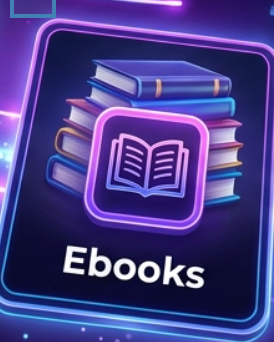
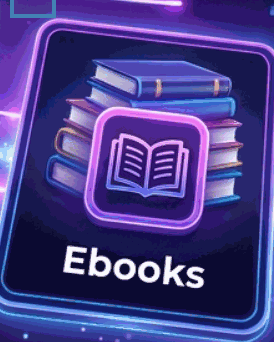
perf(core-web-vitals): eliminate render-blocking fonts, optimize hub images to webp, add main landmark, and defer scripts

diff --git a/index.html b/index.html
@@ -36,6 +36,10 @@
 <link rel="manifest" href="manifest.json"/>
 <meta name="theme-color" content="#7c3aed"/>
 <link rel="apple-touch-icon" href="icon-192.png"/>
+<link rel="preconnect" href="https://fonts.googleapis.com">
+<link rel="preconnect" href="https://fonts.gstatic.com" crossorigin>
+<link rel="stylesheet" href="https://fonts.googleapis.com/css2?family=Inter:wght@400;600;700;800&family=Poppins:wght@500;600;700&display=swap" media="print" onload="this.media='all'">
+<noscript><link rel="stylesheet" href="https://fonts.googleapis.com/css2?family=Inter:wght@400;600;700;800&family=Poppins:wght@500;600;700&display=swap"></noscript>
 <link rel="stylesheet" href="shared.css?v=20260914_imgpdf_v9"/>
 <link rel="icon" href="icon-192.png"/>
 <meta name="google-site-verification" content="googlec324d892b7f2bbf5"/>
@@ -177,6 +181,7 @@
   <a href="#" onclick="triggerAppInstall();return false;" style="color:#a855f7;font-weight:700;">📱 Install TheBhom App</a>
 </nav>
 
+<main id="mainContent">
 <!-- HERO -->
 <section class="hero" id="home">
   <div class="hero-content">
@@ -237,7 +242,7 @@
 <section id="pinterestFeedSection" style="padding:1.5rem 0 2rem;">
   <div style="max-width:1440px;margin:0 auto;padding:0 2rem 1rem;display:flex;justify-content:space-between;align-items:center;flex-wrap:wrap;gap:10px;">
     <div>
-      <h2 style="font-size:1.6rem;font-weight:900;color:#fff;">✨ Trending on <span class="grad-text">TheBhom Board</span></h2>
+      <h2 style="font-size:1.6rem;font-weight:900;color:var(--text);">✨ Trending on <span class="grad-text">TheBhom Board</span></h2>
       <p style="font-size:0.85rem;color:var(--text2);margin-top:2px;">Pinterest-style visual discovery • 100% Free • One-click Save & Download</p>
     </div>
     <div style="display:flex;gap:8px;">
@@ -278,42 +283,72 @@
         <div class="hub-subdomain">thebhom.in/tools</div>
       </a>
       <a href="downloader/" class="hub-card" style="border-color: rgba(0, 242, 254, 0.4); box-shadow: 0 0 25px rgba(0, 242, 254, 0.15);">
-        <div class="hub-preview-img-wrap"><img src="assets/hub/hub_downloader.png" alt="Video Downloader" class="hub-preview-img" /></div>
+        <div class="hub-preview-img-wrap">
+          <picture>
+            <source srcset="assets/hub/hub_downloader.webp" type="image/webp">
+            <img src="assets/hub/hub_downloader.png" alt="Video Downloader" class="hub-preview-img" width="314" height="240" loading="lazy" decoding="async" />
+          </picture>
+        </div>
         <h3>Video Downloader & Trimmer</h3>
         <p>YouTube, Instagram Reels, TikTok 1080p Full HD Video Download & Precise Clip Trimmer</p>
         <span class="hub-count" style="color:#00f2fe; background:rgba(0,242,254,0.12);">100% Free Tool</span>
         <div class="hub-subdomain">thebhom.in/downloader</div>
       </a>
       <a href="wallpapers.html" class="hub-card">
-        <div class="hub-preview-img-wrap"><img src="assets/hub/hub_wallpapers.png" alt="Wallpapers" class="hub-preview-img" /></div>
+        <div class="hub-preview-img-wrap">
+          <picture>
+            <source srcset="assets/hub/hub_wallpapers.webp" type="image/webp">
+            <img src="assets/hub/hub_wallpapers.png" alt="Wallpapers" class="hub-preview-img" width="322" height="340" loading="lazy" decoding="async" />
+          </picture>
+        </div>
         <h3>HD/4K Wallpapers</h3>
         <p>Mobile (9:16) & Desktop (16:9) Ultra-HD 4K Wallpapers</p>
         <span class="hub-count" id="wcnt">Loading...</span>
         <div class="hub-subdomain">thebhom.in/wallpapers</div>
       </a>
       <a href="ebooks.html" class="hub-card">
-        <div class="hub-preview-img-wrap"><img src="assets/hub/hub_ebooks.png" alt="E-Books" class="hub-preview-img" /></div>
+        <div class="hub-preview-img-wrap">
+          <picture>
+            <source srcset="assets/hub/hub_ebooks.webp" type="image/webp">
+            <img src="assets/hub/hub_ebooks.png" alt="E-Books" class="hub-preview-img" width="274" height="342" loading="lazy" decoding="async" />
+          </picture>
+        </div>
         <h3>Full E-Books</h3>
         <p>पूरा 10-Page Unabridged Book, 5 Chapters, 30-Day Checklist & Golden Rules</p>
         <span class="hub-count" id="bcnt">Loading...</span>
         <div class="hub-subdomain">thebhom.in/ebooks</div>
       </a>
       <a href="magazines.html" class="hub-card">
-        <div class="hub-preview-img-wrap"><img src="assets/hub/hub_magazines.png" alt="Magazines" class="hub-preview-img" /></div>
+        <div class="hub-preview-img-wrap">
+          <picture>
+            <source srcset="assets/hub/hub_magazines.webp" type="image/webp">
+            <img src="assets/hub/hub_magazines.png" alt="Magazines" class="hub-preview-img" width="322" height="294" loading="lazy" decoding="async" />
+          </picture>
+        </div>
         <h3>Digital Magazines</h3>
         <p>पूरा 10-Page Glossy Issue, Editorial Letter, Cover Story, Interviews & Reviews</p>
         <span class="hub-count" id="mcnt">Loading...</span>
         <div class="hub-subdomain">thebhom.in/magazines</div>
       </a>
       <a href="templates.html" class="hub-card">
-        <div class="hub-preview-img-wrap"><img src="assets/hub/hub_templates.png" alt="Templates" class="hub-preview-img" /></div>
+        <div class="hub-preview-img-wrap">
+          <picture>
+            <source srcset="assets/hub/hub_templates.webp" type="image/webp">
+            <img src="assets/hub/hub_templates.png" alt="Templates" class="hub-preview-img" width="314" height="224" loading="lazy" decoding="async" />
+          </picture>
+        </div>
         <h3>Multi-Slide Templates</h3>
         <p>Instagram 4-Slide Carousels, 2-Page CVs, Front+Back Cards (Full PDF Pack)</p>
         <span class="hub-count" id="tcnt">Loading...</span>
         <div class="hub-subdomain">thebhom.in/templates</div>
       </a>
       <a href="cards.html" class="hub-card">
-        <div class="hub-preview-img-wrap"><img src="assets/hub/hub_cards.png" alt="Greeting Cards" class="hub-preview-img" /></div>
+        <div class="hub-preview-img-wrap">
+          <picture>
+            <source srcset="assets/hub/hub_cards.webp" type="image/webp">
+            <img src="assets/hub/hub_cards.png" alt="Greeting Cards" class="hub-preview-img" width="314" height="240" loading="lazy" decoding="async" />
+          </picture>
+        </div>
         <h3>Foldable Greeting Cards</h3>
         <p>Full 4-Panel Foldable Cards (Front, Inside Poem, Love Letter & Hallmark PDF)</p>
         <span class="hub-count" id="ccnt">Loading...</span>
@@ -397,51 +432,57 @@
   </script>
 </div>
 
+</main>
 <div id="footerMount"></div>
 
-<script src="data.js?v=20260914_imgpdf_v9"></script>
-<script src="shared.js?v=20260914_imgpdf_v9"></script>
+<script defer src="data.js?v=20260914_imgpdf_v9"></script>
+<script defer src="shared.js?v=20260914_imgpdf_v9"></script>
 <script>
-if (!document.querySelector('header.hdr')) {
-  const hm = document.getElementById('headerMount');
-  if (hm) hm.innerHTML = renderHeader('');
-}
-document.getElementById('footerMount').innerHTML = renderFooter();
-initShared();
-
-// Update counts and animate stats immediately
-if (window.THEBHOM) {
-  const wL = window.THEBHOM.WALLPAPERS?.length || 150;
-  const bL = window.THEBHOM.EBOOKS?.length || 58;
-  const mL = window.THEBHOM.MAGAZINES?.length || 35;
-  const tL = window.THEBHOM.TEMPLATES?.length || 43;
-  const cL = window.THEBHOM.CARDS?.length || 41;
-
-  document.getElementById('wcnt').textContent = wL + '+ Items FREE';
-  document.getElementById('bcnt').textContent = bL + '+ Items FREE';
-  document.getElementById('mcnt').textContent = mL + '+ Items FREE';
-  document.getElementById('tcnt').textContent = tL + '+ Items FREE';
-  document.getElementById('ccnt').textContent = cL + '+ Items FREE';
-
-  function animStat(id,target){
-    const el=document.getElementById(id);if(!el)return;
-    let n=0;const step=Math.max(1,Math.ceil(target/40));
-    const t=setInterval(()=>{
-      n=Math.min(n+step,target);
-      el.textContent=n.toLocaleString('en-IN')+'+';
-      if(n>=target)clearInterval(t);
-    },25);
+window.addEventListener('DOMContentLoaded', () => {
+  if (!document.querySelector('header.hdr')) {
+    const hm = document.getElementById('headerMount');
+    if (hm && typeof renderHeader === 'function') hm.innerHTML = renderHeader('');
   }
+  const fm = document.getElementById('footerMount');
+  if (fm && typeof renderFooter === 'function') fm.innerHTML = renderFooter();
+  if (typeof initShared === 'function') initShared();
 
-  animStat('sW', wL);
-  animStat('sB', bL);
-  animStat('sM', mL);
-  animStat('sT', tL);
-  animStat('sC', cL);
+  // Update counts and animate stats immediately
+  if (window.THEBHOM) {
+    const wL = window.THEBHOM.WALLPAPERS?.length || 150;
+    const bL = window.THEBHOM.EBOOKS?.length || 58;
+    const mL = window.THEBHOM.MAGAZINES?.length || 35;
+    const tL = window.THEBHOM.TEMPLATES?.length || 43;
+    const cL = window.THEBHOM.CARDS?.length || 41;
 
-  // Initialize Pinterest-style Home Feed
-  renderPinterestHomeFeed('pinterestFeedContainer', 'all');
-}
+    const wEl = document.getElementById('wcnt'); if (wEl) wEl.textContent = wL + '+ Items FREE';
+    const bEl = document.getElementById('bcnt'); if (bEl) bEl.textContent = bL + '+ Items FREE';
+    const mEl = document.getElementById('mcnt'); if (mEl) mEl.textContent = mL + '+ Items FREE';
+    const tEl = document.getElementById('tcnt'); if (tEl) tEl.textContent = tL + '+ Items FREE';
+    const cEl = document.getElementById('ccnt'); if (cEl) cEl.textContent = cL + '+ Items FREE';
+
+    function animStat(id,target){
+      const el=document.getElementById(id);if(!el)return;
+      let n=0;const step=Math.max(1,Math.ceil(target/40));
+      const t=setInterval(()=>{
+        n=Math.min(n+step,target);
+        el.textContent=n.toLocaleString('en-IN')+'+';
+        if(n>=target)clearInterval(t);
+      },25);
+    }
+
+    animStat('sW', wL);
+    animStat('sB', bL);
+    animStat('sM', mL);
+    animStat('sT', tL);
+    animStat('sC', cL);
+
+    // Initialize Pinterest-style Home Feed
+    if (typeof renderPinterestHomeFeed === 'function') {
+      renderPinterestHomeFeed('pinterestFeedContainer', 'all');
+    }
+  }
+});
 </script>
 </body>
 </html>

diff --git a/shared.js b/shared.js
@@ -2527,7 +2527,7 @@ function renderPinterestHomeFeed(containerId = 'pinterestFeedContainer', categor
   if (!container || !window.THEBHOM) return;
 
   currentHomeFeedCat = category;
-  if (!append) currentHomeFeedLimit = 28;
+  if (!append) currentHomeFeedLimit = 8;
 
   let allPins = [];
 
@@ -2746,7 +2746,7 @@ function renderPinterestHomeFeed(containerId = 'pinterestFeedContainer', categor
         </div>
       `;
     } else {
-      mediaContent = `<img src="${pin.thumb}" alt="${pin.title}" loading="lazy" onerror="this.parentElement.style.background='linear-gradient(135deg,#1e1b4b,#0f172a)'"/>`;
+      mediaContent = `<img src="${pin.thumb}" alt="${pin.title}" loading="lazy" decoding="async" onerror="this.parentElement.style.background='linear-gradient(135deg,#1e1b4b,#0f172a)'"/>`;
     }
 
     return `

diff --git a/shared.css b/shared.css
@@ -1,5 +1,3 @@
-@import url('https://fonts.googleapis.com/css2?family=Inter:wght@300;400;500;600;700;800;900&family=Poppins:wght@300;400;500;600;700;800;900&family=Playfair+Display:wght@700;800&display=swap');
-
 /* ===== THEME DEFINITIONS ===== */
 /* ImgPDF Standard Light Mode (Default) */
 :root, [data-theme="light"] {
